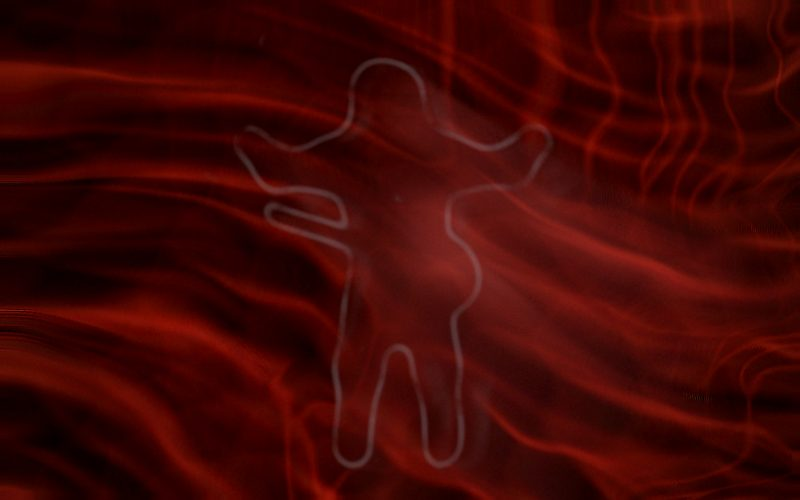
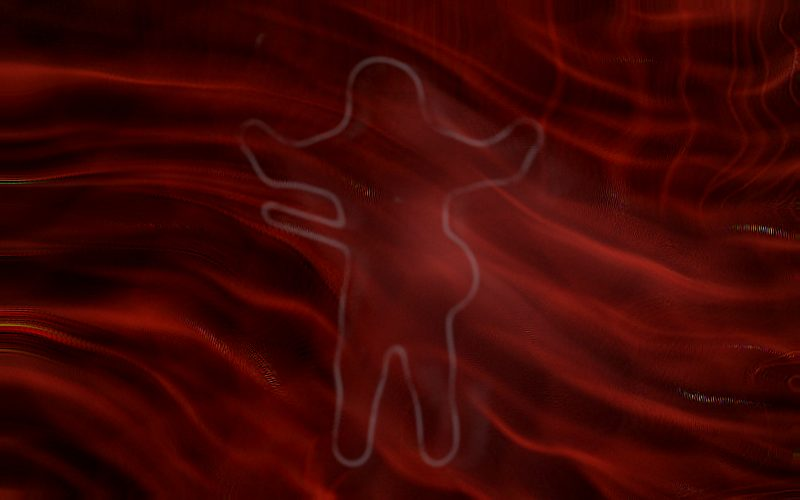
悪夢: アンシャープを dt 正規化 — 実機と検証機で別の絵になる不具合を修正 (#161)
実機キャプチャ(2026-08-25)で判明: 移流ループのアンシャープをステップ
定数(0.32/step)にしていたため、増幅率がフレームレートに比例していた。
検証機(swiftshader 数fps)では穏やかだが実機 60fps では毎秒の増幅が
10倍以上になり、チャンネルが飽和して赤→黄→白に振り切れ、テクセル単位の
リンギング(横縞)が出ていた。つまり実機の見え方はデバイス依存で、
オフライン検証のスクリーンショットは実物と食い違っていた。

- sharp = min(1 - exp(-dt * 23.1), 0.45) に変更。
  60fps では 0.32 相当(実機の見え方は変えない)、低fps機は上限 0.45 で
  効きすぎを抑える(上限が無いと 2fps の検証機で毎ステップ全掛けになり、
  赤の網が完全に消し飛ぶ)。dt=0 では 0 のままなので freeze は決定的
- これでオフラインのキャプチャが実機の絵を再現するようになり、
  サムネイルが実物を表すようになった(再生成済み)
- 技術注意リストに「移流ループ内の増幅は必ず dt 正規化する」を追記予定

検証: verify_static 既知のgtagのみ / verify_runtime --motion --longrun
12/12 pass(flicker・longrunStability とも pass = 発散していない)。

Claude-Session: https://claude.ai/code/session_0193D14d1SybLDp5E6kaLiCx

diff --git a/opus5_uneri.html b/opus5_uneri.html
@@ -854,17 +854,24 @@
             vec2 back = vUv -
               (flow * speed + nrm * jitter * 0.22 * uTear * speed) * uDt / ar;
             vec3 col = texture(uPrev, clamp(back, 0.0, 1.0)).rgb;
-            // 移流のバイリニア拡散に対抗する軽いアンシャープ(ステップ毎の
-            // 補間損失への対抗なので dt スケールではなくステップ定数。ただし
-            // dt=0 では逆追跡が恒等なので 0 — freeze の決定性を守る)。
-            // これが「複雑なうねり」の筋を保つ: 無いと数秒で霧に融ける
+            // 移流のバイリニア拡散に対抗するアンシャープ。**必ず dt 正規化
+            // する**: ステップ定数にすると増幅率がフレームレートに比例し、
+            // 検証機(数fps)と実機(60fps)で全く別の絵になる — 実機では
+            // チャンネルが飽和して赤→黄→白に振り切れ、テクセル単位の
+            // リンギング(横縞)が出た(2026-08-25 実機キャプチャで判明)。
+            // 60fps で 0.32 相当になる連続レート(-60*ln(1-0.32)≈23.1/s)。
+            // dt=0 では 0 — 逆追跡が恒等なので freeze の決定性も守られる
             if (uDt > 0.0) {
               vec2 tx = 1.0 / vec2(textureSize(uPrev, 0));
               vec3 avg = texture(uPrev, clamp(back + vec2(tx.x, 0.0), 0.0, 1.0)).rgb
                 + texture(uPrev, clamp(back - vec2(tx.x, 0.0), 0.0, 1.0)).rgb
                 + texture(uPrev, clamp(back + vec2(0.0, tx.y), 0.0, 1.0)).rgb
                 + texture(uPrev, clamp(back - vec2(0.0, tx.y), 0.0, 1.0)).rgb;
-              col = clamp(col + (col - avg * 0.25) * 0.32, 0.0, 1.0);
+              // 上限 0.45: 60fps 実機は 0.32 のまま(実機の見え方を変えない)、
+              // 低fps機だけ効きすぎを抑える。上限が無いと 2fps の検証機で
+              // 毎ステップ全掛けになり、赤の網が完全に消し飛ぶ
+              float sharp = min(1.0 - exp(-uDt * 23.1), 0.45);
+              col = clamp(col + (col - avg * 0.25) * sharp, 0.0, 1.0);
             }
 
             // 身体の注入: 呑まれた像は赤の側へ変わりつつ、灰の痕跡を残す。
